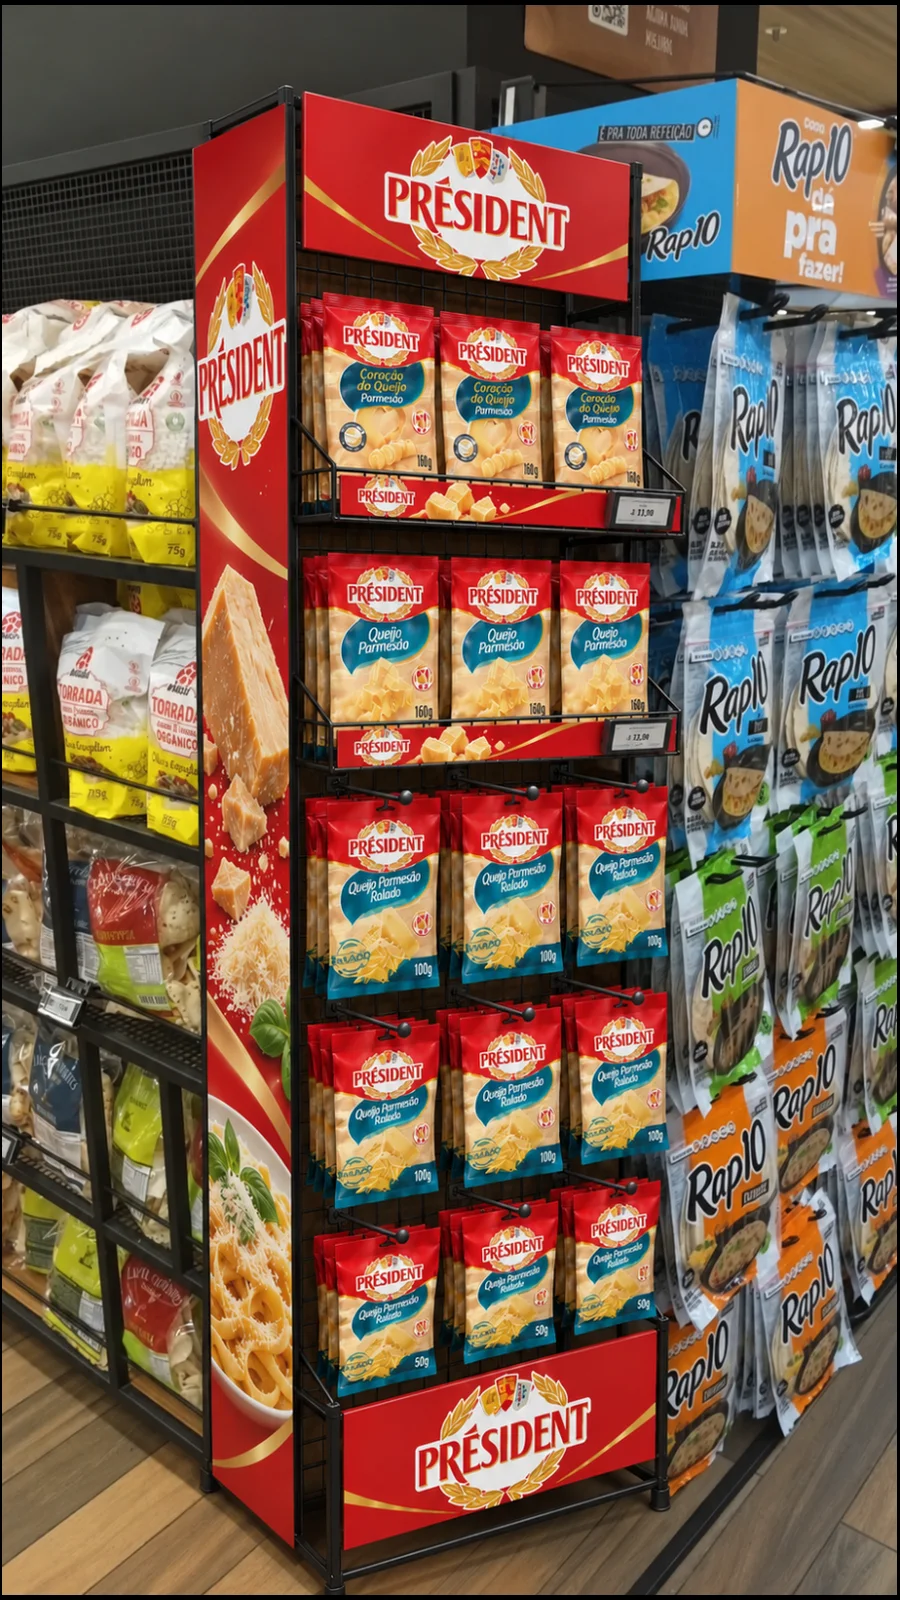
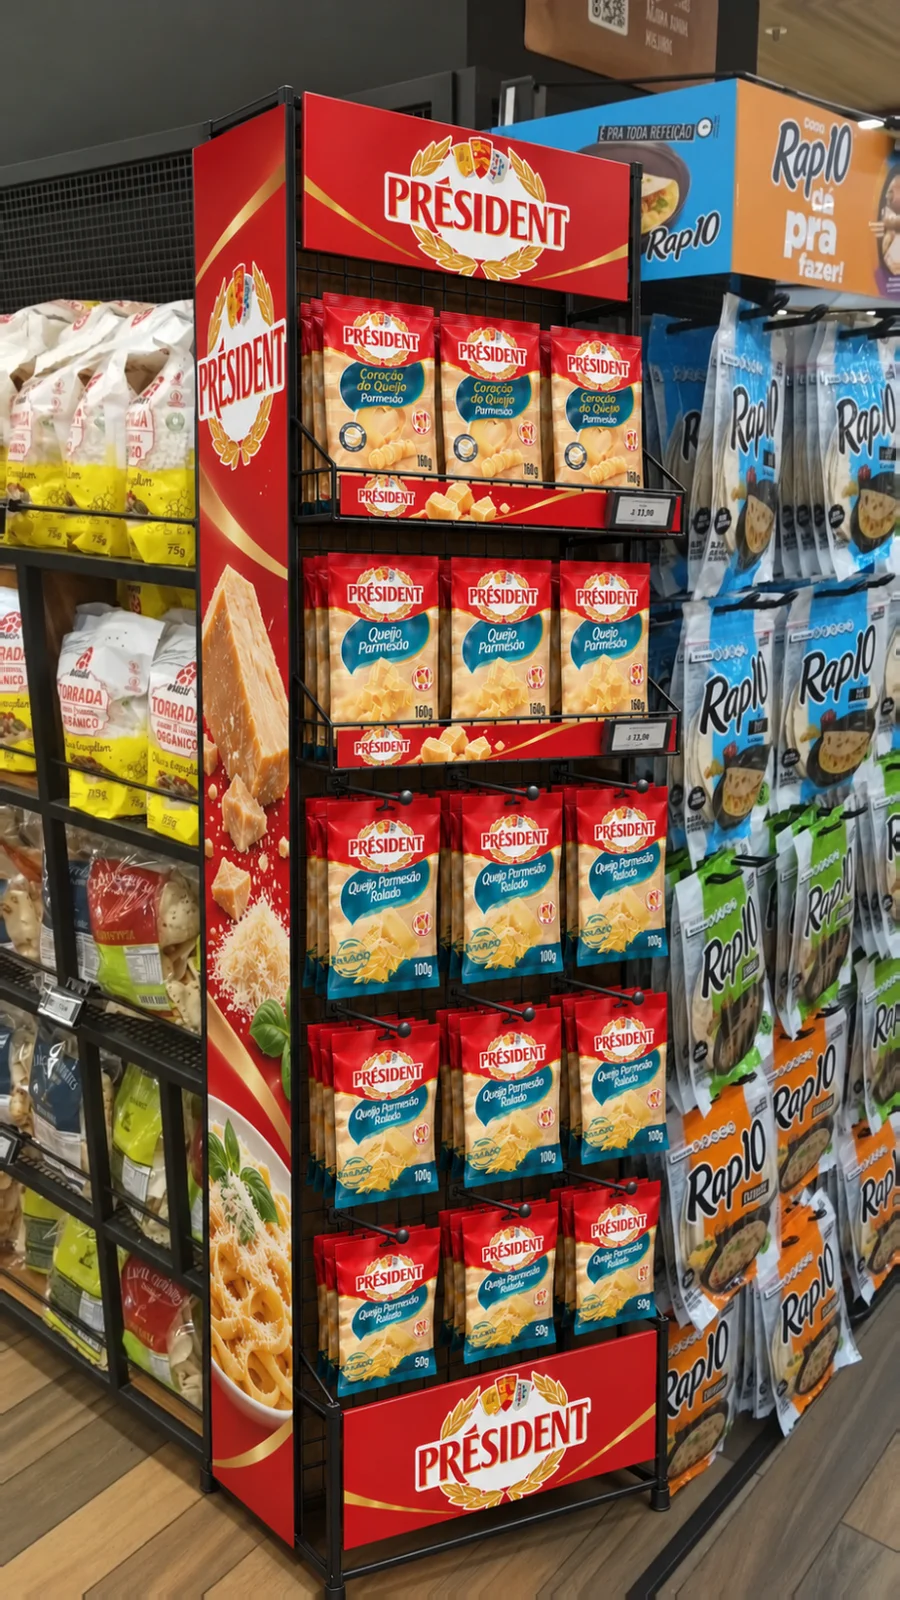
Montagem do MDF com o pé no chão e bordas sem faixa preta
A coluna de madeira pousava em cima da base preta da gôndola vizinha. O chão
e a base agora vêm da montagem do Aramado, um pouco afastados do pé. As três
montagens perdem as faixas pretas que o alinhamento deixava nas bordas.

Changed region(s): [[0.9956, 0.0, 1.0, 1.0], [0.0, 0.9688, 0.3422, 1.0], [0.0, 0.0, 0.0311, 0.0312]]

diff --git a/README.md b/README.md
@@ -28,7 +28,7 @@ QA: `?static` (sem movimento), `?draft`, `?desktop`, `?ar=2.2`. Ferramentas em `
 
 - `assets/img/capa/`: parmesão da capa, gerado no ChatGPT, sem marca nem embalagem.
 - `assets/img/versoes/`: as versões enviadas pelo cliente (com as cotas 140 × 40 × 30 cm).
-- `assets/img/loja/`: fotomontagens geradas no ChatGPT a partir da foto real do ponto na Festval (`atual.webp`) e de cada versão, alinhadas à foto atual por `tools/align.cjs`. São simulações; produtos e embalagens são ilustrativos.
+- `assets/img/loja/`: fotomontagens geradas no ChatGPT a partir da foto real do ponto na Festval (`atual.webp`) e de cada versão, alinhadas à foto atual por `tools/align.cjs`. Na do MDF, `tools/retoque-mdf.cjs` tira o pé de cima da base preta da gôndola vizinha, com o chão e a base vindos da montagem do Aramado, então a base ali não curva como na foto real. São simulações; produtos e embalagens são ilustrativos.
 - `assets/img/ar/`: um QR por versão, apontando para a página de AR.
 - Os originais (PNG) ficam fora do repositório (`.gitignore`).
 
